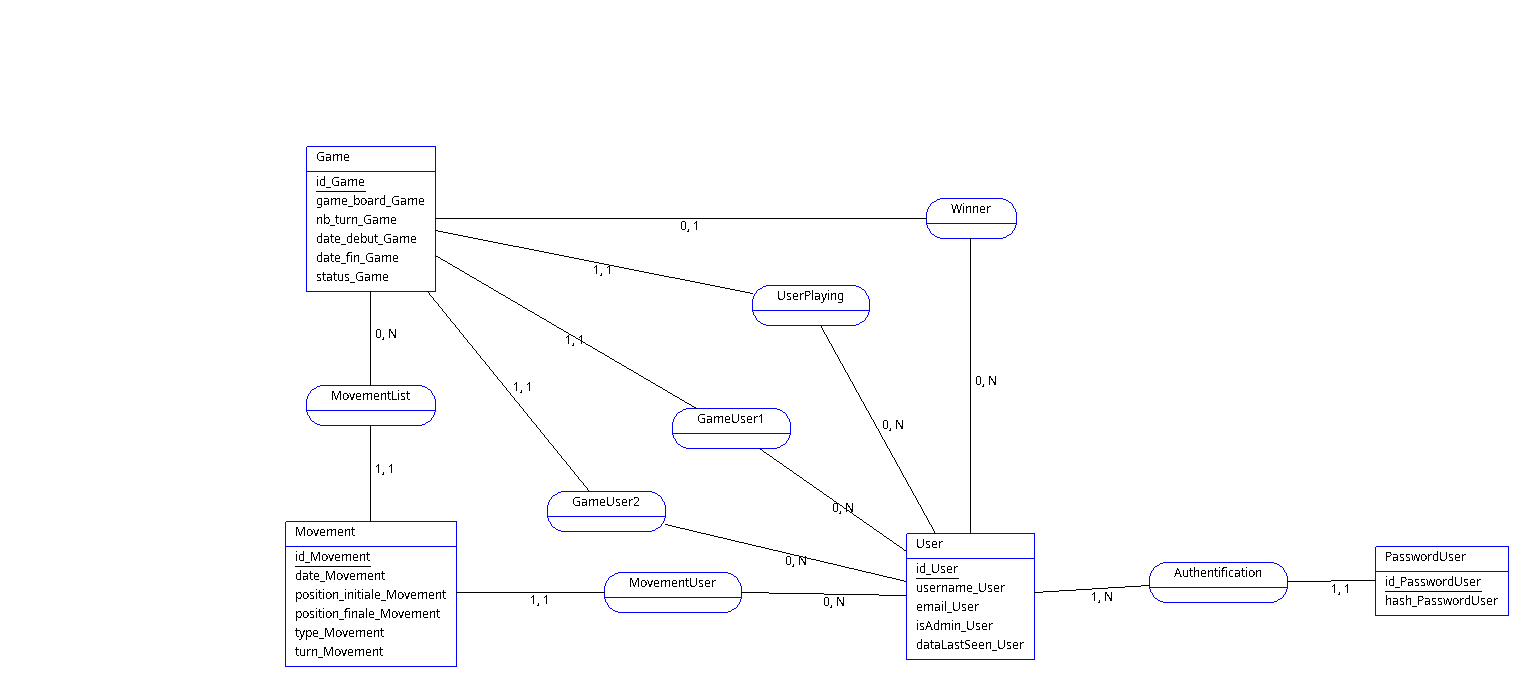
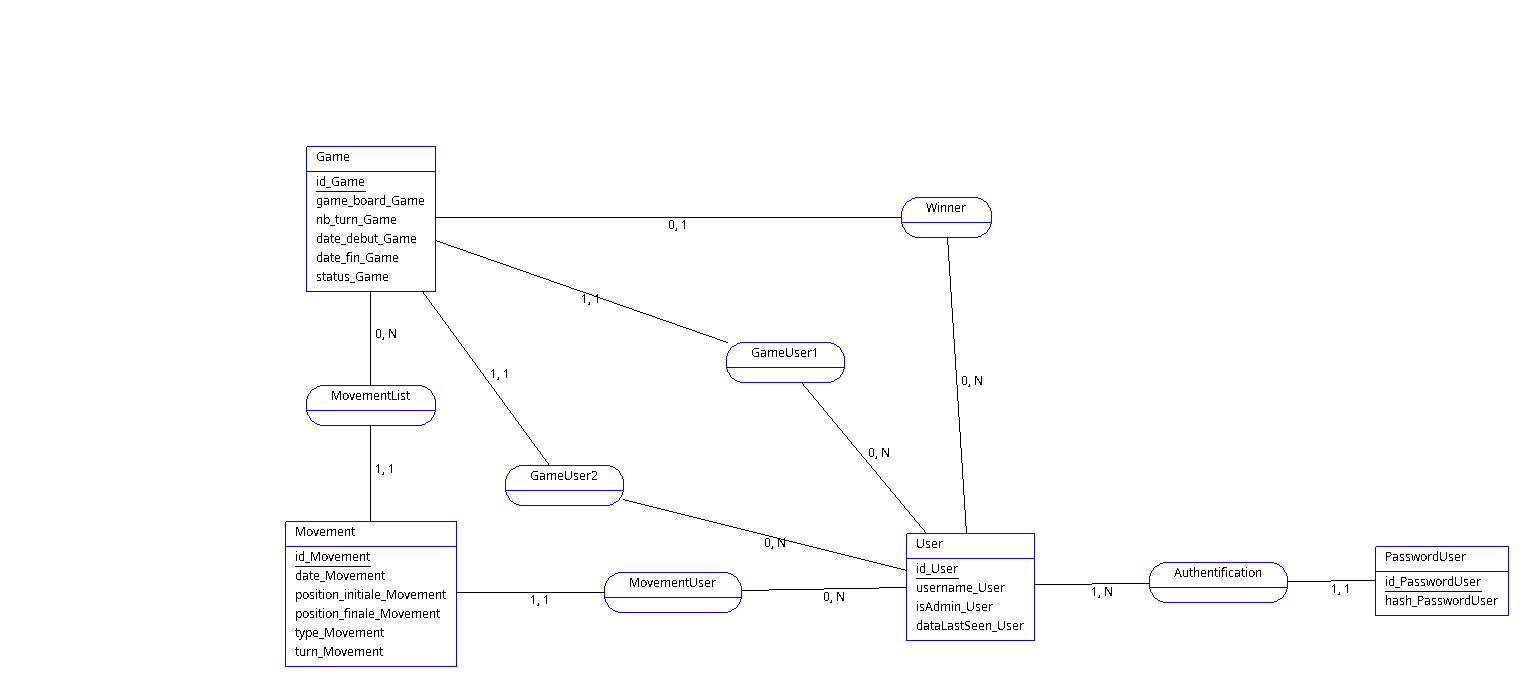
Ajout de la possibilité de join une partie

diff --git a/db/databaseProject.php b/db/databaseProject.php
@@ -15,6 +15,10 @@ class DataBaseProject
     private PDOStatement $prepareUpdatePassword;
     private PDOStatement $prepareGetActivesUsers;
     private PDOStatement $prepareIdUserExist;
+    private PDOStatement $prepareCreateGame;
+    private PDOStatement $prepareGetListGamesWith1Player;
+    private PDOStatement $prepareGetGame;
+    private PDOStatement $prepareAddGameUser2;
 
 
     public function __construct(string $path) {
@@ -51,6 +55,16 @@ class DataBaseProject
 
         $this->prepareIdUserExist = $this->pdo->prepare("SELECT * FROM User WHERE id_User = :id_User");
 
+        $this->prepareCreateGame = $this->pdo->prepare("INSERT INTO Game
+                (game_board_Game, nb_turn_Game, date_debut_Game, status_Game, id_gameuser1) VALUES
+                (:game_board_Game, :nb_turn_Game, :date_debut_Game, :status_Game, :id_gameuser1)");
+
+        $this->prepareGetListGamesWith1Player = $this->pdo->prepare("SELECT * FROM Game WHERE id_gameuser2 IS NULL");
+
+        $this->prepareGetGame = $this->pdo->prepare("SELECT * FROM Game WHERE id_Game = :id_Game");
+
+        $this->prepareAddGameUser2 = $this->pdo->prepare("UPDATE Game SET id_gameuser2 = :id_gameuser2 WHERE id_Game = :id_Game AND id_gameuser2 IS NULL");
+
         if (!$this->userExist("admin")) {
             $this->createUser("admin", 1, password_hash("admin", PASSWORD_DEFAULT));
         }
@@ -65,7 +79,6 @@ class DataBaseProject
                             status_Game INT NOT NULL,
                             id_gameuser1 INTEGER NOT NULL,
                             id_gameuser2 INTEGER,
-                            id_userplaying INTEGER,
                             id_user_winner INTEGER);";
         $this->pdo->exec($sql);
     }
@@ -163,6 +176,35 @@ class DataBaseProject
     public function idUserExist(int $id_User): bool{
         $this->prepareIdUserExist->execute([":id_User" => $id_User]);
         return $this->prepareIdUserExist->fetch(PDO::FETCH_ASSOC) != false;
+    }
+
+    public function createGame(string $game_board_Game, int $nb_turn_Game,
+                                string $date_debut_Game, int $status_Game, int $id_gameuser1):string{
+        $this->prepareCreateGame->execute([
+            ":game_board_Game" => $game_board_Game,
+            ":nb_turn_Game" => $nb_turn_Game,
+            ":date_debut_Game" => $date_debut_Game,
+            ":status_Game" => $status_Game,
+            ":id_gameuser1" => $id_gameuser1
+        ]);
+        return $this->pdo->lastInsertId();
+    }
+
+    public function getListGamesWith1Player() {
+        $this->prepareGetListGamesWith1Player->execute();
+        return $this->prepareGetListGamesWith1Player->fetchAll(PDO::FETCH_ASSOC);
+    }
+
+    public function getGame(int $id_Game) {
+        $this->prepareGetGame->execute([":id_Game" => $id_Game]);
+        return $this->prepareGetGame->fetch(PDO::FETCH_ASSOC);
+    }
+
+    public function addGameUser2(int $id_Game, int $id_gameuser2) {
+        $this->prepareAddGameUser2->execute([
+            ":id_Game" => $id_Game,
+            ":id_gameuser2" => $id_gameuser2
+        ]);
     }
 
 }

diff --git a/games/listgames.php b/games/listgames.php
@@ -1,6 +1,30 @@
 <?php
 require_once "../vue/head.php";
 require_once "../vue/body.php";
+require_once "../db/databaseProject.php";
+
+session_start();
+
+$dbp = new DataBaseProject("../db/projet.sqlite3");
+$isAdmin = false;
+$isConnected = false;
+
+if (isset($_SESSION['id_user'])) {
+    if (!$dbp->idUserExist($_SESSION['id_user'])) {
+        header("Location: ../login/disconnect.php");
+        exit();
+    }
+    $id_user = $_SESSION['id_user'];
+    $username = $dbp->getUsername($id_user);
+    $isAdmin = $dbp->isAdmin($id_user);
+    $dbp->updateDateLastSeen($id_user);
+    $isConnected = true;
+}
+
+$listGames = $dbp->getListGamesWith1Player();
+
+
+
 ?>
 <!DOCTYPE html>
 <html lang="en">
@@ -9,8 +33,42 @@ require_once "../vue/body.php";
 ?>
 <body>
     <?php
-        displayBodyElements();
+        displayBodyElements($isConnected, $isAdmin, $username);
     ?>
-    Coucou parties
+    <div class="container">
+        <div class="row justify-content-center">
+            <div class="col-md-6">
+                <div class="card rounded">
+                    <div class="card-body">
+                        <h5 class="card-title">Liste des parties en attente de joueurs :</h5>
+                        <table class="table table-striped">
+                            <caption>Parties en attente de joueurs</caption>
+                            <thead>
+                                <tr>
+                                    <th scope="col">Nombre de joueurs</th>
+                                    <th scope="col">Créateur</th>
+                                    <th scope="col">Date de création</th>
+                                    <th scope="col">Rejoindre</th>
+                                </tr>
+                            </thead>
+                            <tbody>
+                                <?php
+                                    foreach ($listGames as $game) {
+                                        ?>
+                                        <tr>
+                                            <td class="text-center">1/2</td>
+                                            <td class="text-center"><?php echo $dbp->getUsername($game["id_gameuser1"]); ?></td>
+                                            <td class="text-center"><?php echo $game["date_debut_Game"]; ?></td>
+                                            <td class="text-center"><a href="gamejoin.php?idGame=<?php echo $game["id_Game"]; ?>" class="btn btn-primary">Rejoindre</a></td>
+                                        </tr>
+                                        <?php
+                                    }
+                                ?>
+                            </tbody>
+                    </div>
+                </div>
+            </div>
+        </div>
+    </div>
 </body>
 </html>

diff --git a/games/gameClass.php b/games/gameClass.php
@@ -1,0 +1,52 @@
+<?php
+
+class Game implements JsonSerializable
+{
+    private array $board;
+    private int $player1;
+    private int $player2;
+    private int $activePlayer;
+    private array $deckPlayer1;
+    private array $deckPlayer2;
+    private int $lines;
+    private int $columns;
+    private int $deckSize;
+    private static string $player1Pawns = "E";
+    private static string $player2Pawns = "R";
+    private static string $south = "S";
+    private static string $north = "N";
+    private static string $east = "E";
+    private static string $west = "W";
+    private static string $empty = " ";
+
+    public function __construct(int $lines, int $columns, int $deckSize, int $player1, int $player2,
+                int $activePlayer, array $board = null, array $deckPlayer1 = null, array $deckPlayer2 = null)
+    {
+        $this->lines = $lines;
+        $this->columns = $columns;
+        $this->deckSize = $deckSize;
+        $this->player1 = $player1;
+        $this->player2 = $player2;
+        $this->activePlayer = $activePlayer;
+        if ($board == null) {
+            $this->board = array_fill(0, $lines, array_fill(0, $columns, self::$empty));
+        } else {
+            $this->board = $board;
+        }
+        if ($deckPlayer1 == null) {
+            $this->deckPlayer1 = array_fill(0, $deckSize, self::$player1Pawns);
+        } else {
+            $this->deckPlayer1 = $deckPlayer1;
+        }
+        if ($deckPlayer2 == null) {
+            $this->deckPlayer2 = array_fill(0, $deckSize, self::$player2Pawns);
+        } else {
+            $this->deckPlayer2 = $deckPlayer2;
+        }
+    }
+    
+    public function jsonSerialize() : string
+    {
+        return json_encode(get_object_vars($this));
+    }
+}

diff --git a/games/gamejoin.php b/games/gamejoin.php
@@ -1,0 +1,54 @@
+<?php
+require_once "../vue/head.php";
+require_once "../vue/body.php";
+require_once "../db/databaseProject.php";
+
+session_start();
+
+$dbp = new DataBaseProject("../db/projet.sqlite3");
+$isAdmin = false;
+$isConnected = false;
+
+if (isset($_SESSION['id_user'])) {
+    if (!$dbp->idUserExist($_SESSION['id_user'])) {
+        header("Location: ../login/disconnect.php");
+        exit();
+    }
+    $id_user = $_SESSION['id_user'];
+    $username = $dbp->getUsername($id_user);
+    $isAdmin = $dbp->isAdmin($id_user);
+    $dbp->updateDateLastSeen($id_user);
+    $isConnected = true;
+} else {
+    header("Location: ../games/listgames.php");
+    exit();
+}
+
+if (!isset($_GET['idGame'])) {
+    header("Location: ../games/listgames.php");
+    exit();
+}
+
+$idGame = $_GET['idGame'];
+
+$game = $dbp->getGame($idGame);
+
+if ($game == null) {
+    header("Location: ../games/listgames.php");
+    exit();
+}
+
+if ($game["id_gameuser1"] == $id_user || $game["id_gameuser2"] == $id_user) {
+    header("Location: ../games/game.php?idGame=" . $idGame);
+    exit();
+}
+
+if ($game["id_gameuser2"] != 0) {
+    header("Location: ../games/listgames.php");
+    exit();
+}
+
+$dbp->addGameUser2($idGame, $id_user);
+
+header("Location: ../games/game.php?idGame=" . $idGame);
+exit();

diff --git a/games/gamecreate.php b/games/gamecreate.php
@@ -1,16 +1,31 @@
 <?php
 require_once "../vue/head.php";
 require_once "../vue/body.php";
-?>
-<!DOCTYPE html>
-<html lang="en">
-<?php
-    echoHead("Siam - Création de partie");
-?>
-<body>
-    <?php
-        displayBodyElements();
-    ?>
-    Coucou creategame
-</body>
-</html>
+require_once "../db/databaseProject.php";
+require_once "gameClass.php";
+
+session_start();
+
+$dbp = new DataBaseProject("../db/projet.sqlite3");
+$isAdmin = false;
+
+if (!isset($_SESSION['id_user'])) {
+    header("Location: ../index.php");
+    exit();
+} else {
+    if (!$dbp->idUserExist($_SESSION['id_user'])) {
+        header("Location: ../login/disconnect.php");
+        exit();
+    }
+    $id_user = $_SESSION['id_user'];
+    $username = $dbp->getUsername($id_user);
+    $isAdmin = $dbp->isAdmin($id_user);
+    $dbp->updateDateLastSeen($id_user);
+}
+
+$game = new Game(5, 5, 5, $id_user, 0, rand(1, 2));
+
+$idGame = $dbp->createGame($game->jsonSerialize(), 0, date("Y-m-d H:i:s", time()), 0, $id_user);
+
+header("Location: gamewait.php?idGame=" . $idGame);
+exit();

diff --git a/games/gamewait.php b/games/gamewait.php
@@ -5,7 +5,7 @@ require_once "../vue/body.php";
 <!DOCTYPE html>
 <html lang="en">
 <?php
-    echoHead("Siam - Partie : Attente");
+    echoHead("Siam - Partie : Attente d'un adversaire");
 ?>
 <body>
     <?php
